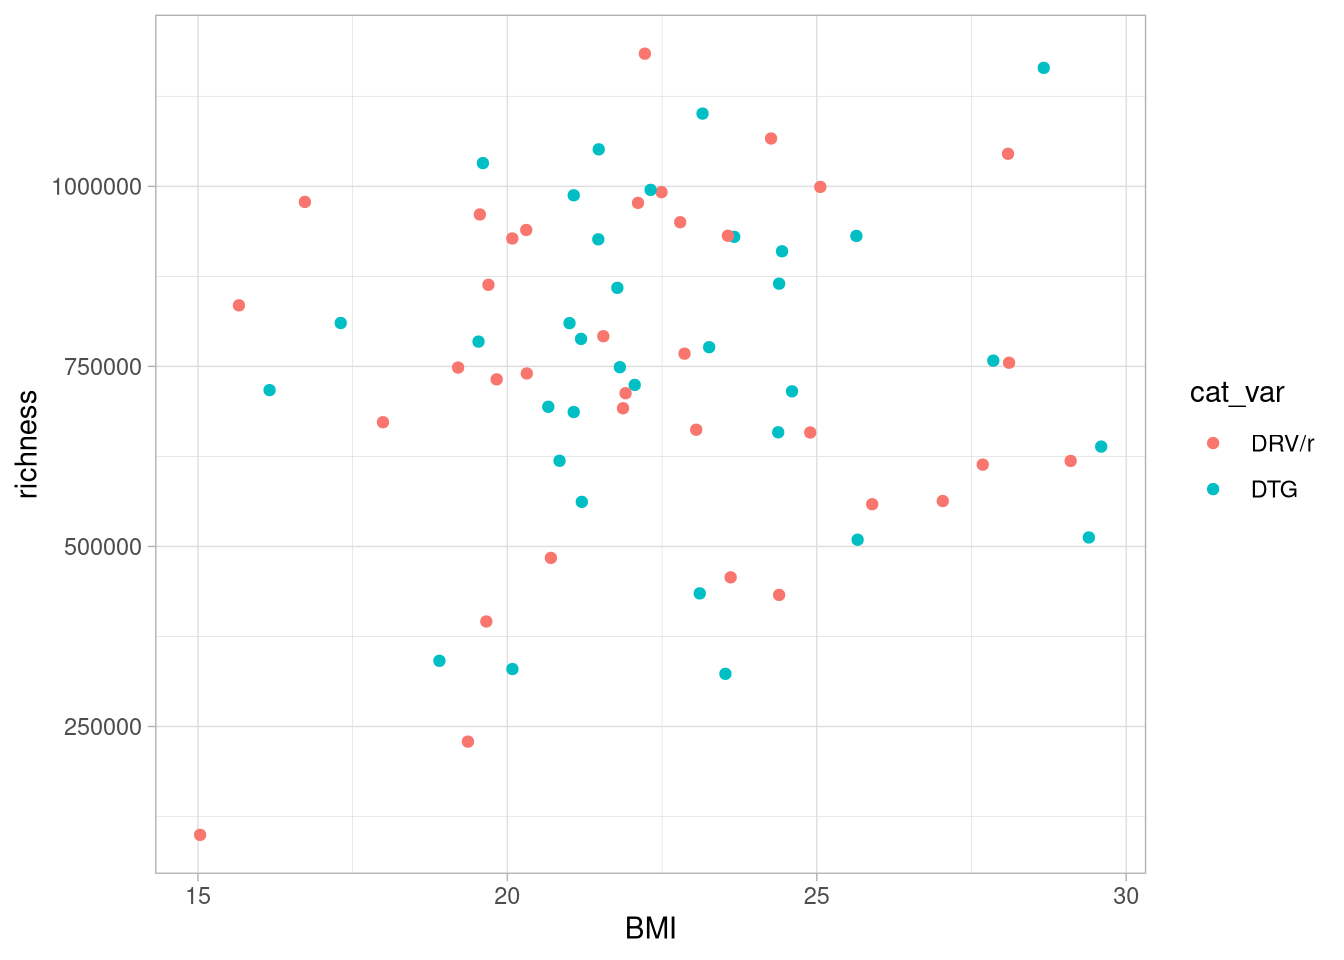
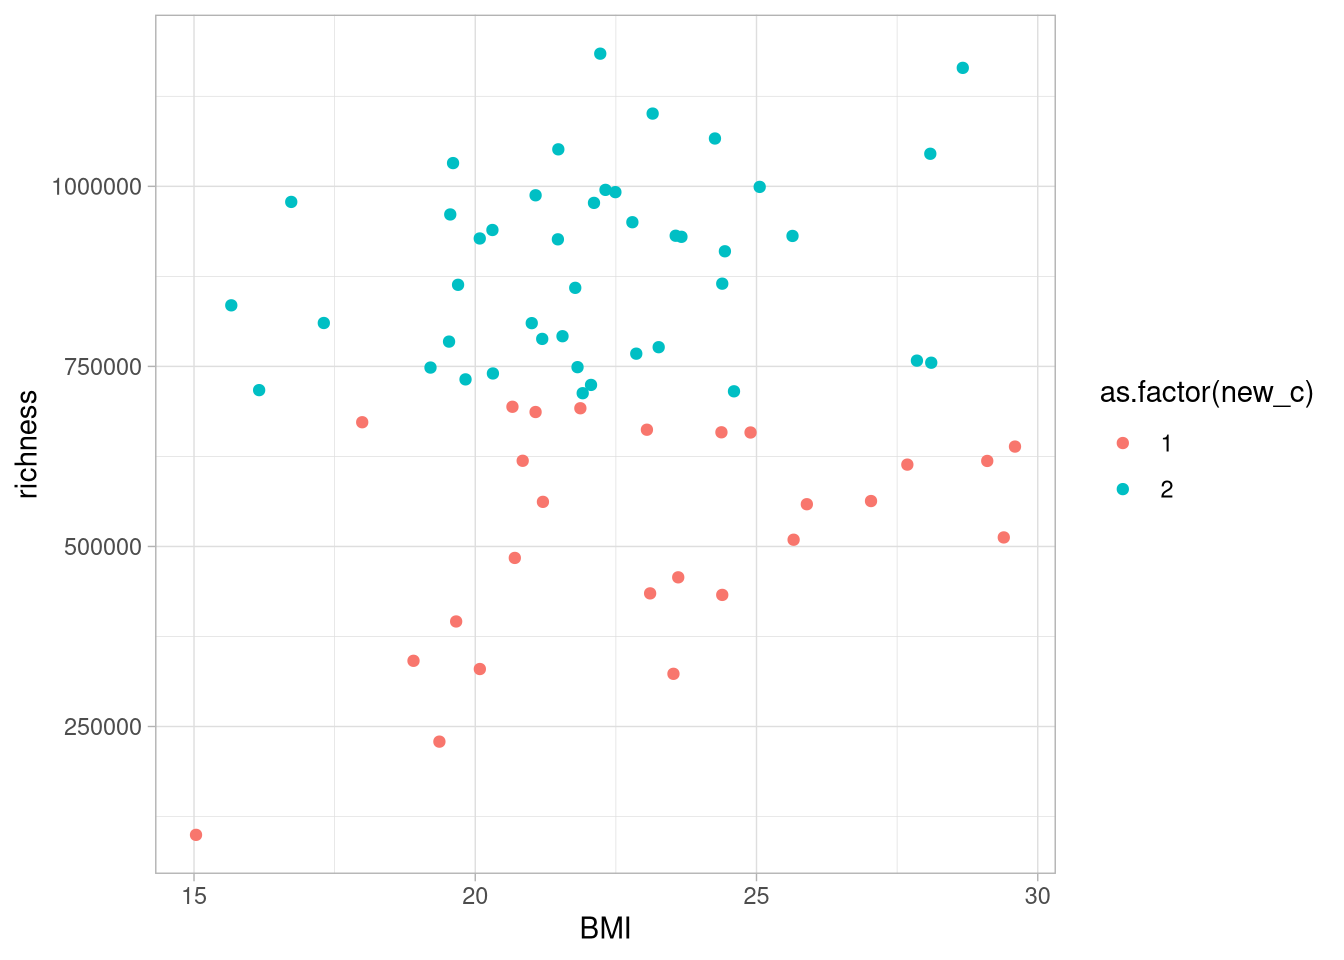
added distribution per group

diff --git a/docs/311_GR_vs_BMI.html b/docs/311_GR_vs_BMI.html
@@ -342,7 +342,7 @@ $(document).ready(function () {
 <div class="tab-content">
 <div id="summary" class="tab-pane fade in active">
 <p>
-<strong>Last updated:</strong> 2023-03-08
+<strong>Last updated:</strong> 2023-03-09
 </p>
 <p>
 <strong>Checks:</strong> <span class="glyphicon glyphicon-ok text-success" aria-hidden="true"></span> 6 <span class="glyphicon glyphicon-exclamation-sign text-danger" aria-hidden="true"></span> 1
@@ -433,16 +433,16 @@ This reproducible <a href="https://rmarkdown.rstudio.com">R Markdown</a> analysi
 <div class="panel panel-default">
 <div class="panel-heading">
 <p class="panel-title">
-<a data-toggle="collapse" data-parent="#workflowr-checks" href="#strongRepositoryversionstrongahrefhttpsgithubcomMicrobialGenomicsadvanz4treead7d8450c85e8ec5ecd71dff2d8584608ea133d3targetblankad7d845a"> <span class="glyphicon glyphicon-ok text-success" aria-hidden="true"></span> <strong>Repository version:</strong> <a href="https://github.com/MicrobialGenomics/advanz4/tree/ad7d8450c85e8ec5ecd71dff2d8584608ea133d3" target="_blank">ad7d845</a> </a>
+<a data-toggle="collapse" data-parent="#workflowr-checks" href="#strongRepositoryversionstrongahrefhttpsgithubcomMicrobialGenomicsadvanz4treeec3949c8abd001aa4c07563476791b0c859c652atargetblankec3949ca"> <span class="glyphicon glyphicon-ok text-success" aria-hidden="true"></span> <strong>Repository version:</strong> <a href="https://github.com/MicrobialGenomics/advanz4/tree/ec3949c8abd001aa4c07563476791b0c859c652a" target="_blank">ec3949c</a> </a>
 </p>
 </div>
[2 lines of base64/hex data omitted]
 <div class="panel-body">
 <p>
 Great! You are using Git for version control. Tracking code development and connecting the code version to the results is critical for reproducibility.
 </p>
 <p>
-The results in this page were generated with repository version <a href="https://github.com/MicrobialGenomics/advanz4/tree/ad7d8450c85e8ec5ecd71dff2d8584608ea133d3" target="_blank">ad7d845</a>. See the <em>Past versions</em> tab to see a history of the changes made to the R Markdown and HTML files.
+The results in this page were generated with repository version <a href="https://github.com/MicrobialGenomics/advanz4/tree/ec3949c8abd001aa4c07563476791b0c859c652a" target="_blank">ec3949c</a>. See the <em>Past versions</em> tab to see a history of the changes made to the R Markdown and HTML files.
 </p>
 <p>
 Note that you need to be careful to ensure that all relevant files for the analysis have been committed to Git prior to generating the results (you can use <code>wflow_publish</code> or <code>wflow_git_commit</code>). workflowr only checks the R Markdown file, but you know if there are other scripts or data files that it depends on. Below is the status of the Git repository when the results were generated:
@@ -460,7 +460,7 @@ Ignored files:
     Ignored:    data/mre.rds
 
 Untracked files:
-    Untracked:  data/signif_paths.rds
+    Untracked:  analysis/figure/
 
 Unstaged changes:
     Modified:   analysis/311_GR_vs_BMI.Rmd
@@ -502,6 +502,40 @@ Message
 </tr>
 </thead>
 <tbody>
+<tr>
+<td>
+Rmd
+</td>
+<td>
+<a href="https://github.com/MicrobialGenomics/advanz4/blob/ec3949c8abd001aa4c07563476791b0c859c652a/analysis/311_GR_vs_BMI.Rmd" target="_blank">ec3949c</a>
+</td>
+<td>
+cblazquez
+</td>
+<td>
+2023-03-08
+</td>
+<td>
+updated BMI_vs_GR
+</td>
+</tr>
+<tr>
+<td>
+html
+</td>
+<td>
+<a href="https://rawcdn.githack.com/MicrobialGenomics/advanz4/ec3949c8abd001aa4c07563476791b0c859c652a/docs/311_GR_vs_BMI.html" target="_blank">ec3949c</a>
+</td>
+<td>
+cblazquez
+</td>
+<td>
+2023-03-08
+</td>
+<td>
+updated BMI_vs_GR
+</td>
+</tr>
 <tr>
 <td>
 Rmd
@@ -555,6 +589,43 @@ igc_df %&gt;%
   theme(axis.title.y = element_blank())</code></pre>
 <pre><code>Warning: Ignoring unknown parameters: bins</code></pre>
 <p><img src="figure/311_GR_vs_BMI.Rmd/basal_dist_df-1.png" width="672" style="display: block; margin: auto;" /></p>
+<p>
+<button type="button" class="btn btn-default btn-xs btn-workflowr btn-workflowr-fig" data-toggle="collapse" data-target="#fig-basal_dist_df-1">
+Past versions of basal_dist_df-1.png
+</button>
+</p>
+<div id="fig-basal_dist_df-1" class="collapse">
+<div class="table-responsive">
+<table class="table table-condensed table-hover">
+<thead>
+<tr>
+<th>
+Version
+</th>
+<th>
+Author
+</th>
+<th>
+Date
+</th>
+</tr>
+</thead>
+<tbody>
+<tr>
+<td>
+<a href="https://github.com/MicrobialGenomics/advanz4/blob/ec3949c8abd001aa4c07563476791b0c859c652a/docs/figure/311_GR_vs_BMI.Rmd/basal_dist_df-1.png" target="_blank">ec3949c</a>
+</td>
+<td>
+cblazquez
+</td>
+<td>
+2023-03-08
+</td>
+</tr>
+</tbody>
+</table>
+</div>
+</div>
 <pre class="r"><code>igc_df %&gt;% 
   dplyr::filter(long_var == 0, !is.na(BMI)) %&gt;% 
   dplyr::mutate(BMI_c = case_when(BMI &gt;= 22 ~ &quot;high&quot;,
@@ -611,19 +682,94 @@ bmi_c %&gt;%
   ggpubr::stat_compare_means(method = &quot;wilcox.test&quot;, hide.ns = F) +
   theme_light()</code></pre>
 <p><img src="figure/311_GR_vs_BMI.Rmd/BL_stratified_analysis-1.png" width="672" style="display: block; margin: auto;" /></p>
+<p>
+<button type="button" class="btn btn-default btn-xs btn-workflowr btn-workflowr-fig" data-toggle="collapse" data-target="#fig-BL_stratified_analysis-1">
+Past versions of BL_stratified_analysis-1.png
+</button>
+</p>
+<div id="fig-BL_stratified_analysis-1" class="collapse">
+<div class="table-responsive">
+<table class="table table-condensed table-hover">
+<thead>
+<tr>
+<th>
+Version
+</th>
+<th>
+Author
+</th>
+<th>
+Date
+</th>
+</tr>
+</thead>
+<tbody>
+<tr>
+<td>
+<a href="https://github.com/MicrobialGenomics/advanz4/blob/ec3949c8abd001aa4c07563476791b0c859c652a/docs/figure/311_GR_vs_BMI.Rmd/BL_stratified_analysis-1.png" target="_blank">ec3949c</a>
+</td>
+<td>
+cblazquez
+</td>
+<td>
+2023-03-08
+</td>
+</tr>
+</tbody>
+</table>
+</div>
+</div>
 <pre class="r"><code>bmi_c %&gt;% 
   # dplyr::select(BMI, richness) %&gt;% 
   dplyr::filter(!is.na(richness)) %&gt;% 
   mutate(new_c = kmeans(.[,c(&quot;BMI&quot;,&quot;richness&quot;)], centers = 2)$cluster) %&gt;% 
-  ggplot(aes( x = BMI, y = richness, color = cat_var)) +
+  ggplot(aes( x = BMI, y = richness, color = as.factor(new_c))) +
   geom_point() +
   theme_light()</code></pre>
-<p><img src="figure/311_GR_vs_BMI.Rmd/BL_stratified_analysis-2.png" width="672" style="display: block; margin: auto;" /> Doesn’t seem to be any noticeable difference between groups or BMI types. No diferences between groups could be found,</p>
+<p><img src="figure/311_GR_vs_BMI.Rmd/BL_stratified_analysis-2.png" width="672" style="display: block; margin: auto;" /></p>
+<p>
+<button type="button" class="btn btn-default btn-xs btn-workflowr btn-workflowr-fig" data-toggle="collapse" data-target="#fig-BL_stratified_analysis-2">
+Past versions of BL_stratified_analysis-2.png
+</button>
+</p>
+<div id="fig-BL_stratified_analysis-2" class="collapse">
+<div class="table-responsive">
+<table class="table table-condensed table-hover">
+<thead>
+<tr>
+<th>
+Version
+</th>
+<th>
+Author
+</th>
+<th>
+Date
+</th>
+</tr>
+</thead>
+<tbody>
+<tr>
+<td>
+<a href="https://github.com/MicrobialGenomics/advanz4/blob/ec3949c8abd001aa4c07563476791b0c859c652a/docs/figure/311_GR_vs_BMI.Rmd/BL_stratified_analysis-2.png" target="_blank">ec3949c</a>
+</td>
+<td>
+cblazquez
+</td>
+<td>
+2023-03-08
+</td>
+</tr>
+</tbody>
+</table>
+</div>
+</div>
+<p>Doesn’t seem to be any noticeable difference between groups or BMI types. No diferences richness between HBMI and LBMI could be found.</p>
 </div>
 <div id="stratification-by-bmi-changes" class="section level1">
 <h1>Stratification by BMI changes</h1>
 <p>Maybe the increase in gene richness may be associated with higher increase in BMI</p>
-<pre class="r"><code>delta_bmi_df
+<pre class="r"><code>delta_bmi_df &lt;- 
 igc_df %&gt;% 
   # dplyr::filter(long_var == 0) %&gt;% 
   dplyr::select(link_var, long_var, cat_var, richness, BMI) %&gt;% 
@@ -631,20 +777,73 @@ igc_df %&gt;%
   dplyr::filter(long_var %in% c(0,96), 
                 !is.na(BMI)) %&gt;% 
   filter(n() ==2) %&gt;% 
-  mutate(delta_BMI_abs = BMI - BMI[long_var == 0],
+  mutate(bmi0 = BMI[long_var == 0],
+    delta_BMI_abs = BMI - BMI[long_var == 0],
          delta_BMI_rel = (BMI - BMI[long_var == 0])*100 / BMI[long_var == 0],
          delta_gr_abs = richness - richness[long_var == 0],
          delta_gr_rel = (richness - richness[long_var == 0]) / (richness + richness[long_var == 0])) %&gt;%
-  dplyr::filter(long_var == 96) 
+  dplyr::filter(long_var == 96) %&gt;% 
+  dplyr::select(record_id = link_var, contains(&quot;delta&quot;), bmi0, cat_var) 
 
 
+peaks_abs &lt;-
+  unique(metadata$group) %&gt;%
+  purrr::set_names() %&gt;%
+  purrr::map_dfr(function(treat) {
+    
+    delta_bmi_df %&gt;%
+      dplyr::filter(cat_var == treat) %&gt;% 
+      dplyr::pull(delta_BMI_abs) %&gt;%
+      density() %&gt;%
+      peak_finder(goal = &quot;min&quot;) %&gt;%
+      round(., 3) %&gt;% 
+      mutate(cat_var = treat)
+  })
 
-%&gt;%
+
+plot_delta_abs &lt;- 
+delta_bmi_df %&gt;% 
   ggplot(aes(x = delta_BMI_abs)) +
-  geom_density()
-  
-  
-  create_LMM(.,link_var = &quot;link_var&quot;, cat_var = &quot;cat_var&quot;,long_var = &quot;delta_gr_rel&quot;,num_var = &quot;delta_BMI_rel&quot;,breakpoints = NULL)</code></pre>
+  geom_density(aes(color = cat_var)) +
+  geom_vline(xintercept = peaks_abs$x, aes(color = cat_var)) +
+  geom_text(data = peaks_abs, aes(x = peaks_abs$x, y = peaks_abs$y*.9,label = peaks_abs$x, color = cat_var)) +
+  theme_light() +
+  labs(title = &quot;Absolute&quot;, x = &quot;BMI increase&quot;) +
+  theme(axis.title.y = element_blank())
+
+
+
+
+peaks_rel &lt;- 
+  unique(metadata$group) %&gt;%
+  purrr::set_names() %&gt;%
+  purrr::map_dfr(function(treat) {
+    
+    delta_bmi_df %&gt;%
+      dplyr::filter(cat_var == treat) %&gt;% 
+      dplyr::pull(delta_BMI_rel) %&gt;%
+      density() %&gt;%
+      peak_finder(goal = &quot;min&quot;) %&gt;%
+      round(., 3) %&gt;% 
+      mutate(cat_var = treat)
+  })
+
+plot_delta_rel &lt;- 
+delta_bmi_df %&gt;% 
+  ggplot(aes(x = delta_BMI_rel,color = cat_var)) +
+  geom_density(aes(color = cat_var)) +
+  geom_vline(xintercept = peaks_rel$x) +
+  geom_text(data = peaks_rel, aes(x = peaks_rel$x, y = peaks_rel$y*.9,label = peaks_rel$x, color = cat_var)) +
+  labs(title = &quot;Relative (%)&quot;, x = &quot;BMI increase&quot;) +
+  theme_light()
+
+
+# delta_bmi_df %&gt;% 
+
+
+
+ggpubr::ggarrange(plot_delta_abs, plot_delta_rel)  </code></pre>
+<p><img src="figure/311_GR_vs_BMI.Rmd/unnamed-chunk-1-1.png" width="672" style="display: block; margin: auto;" /> Both absolute and relative increases seem fairly unimodal with a slight skew to the left. There seems to be a local minima in the relative deltas, but not enough to justfy a split.</p>
 <br>
 <p>
 <button type="button" class="btn btn-default btn-workflowr btn-workflowr-sessioninfo" data-toggle="collapse" data-target="#workflowr-sessioninfo" style="display: block;">
@@ -712,16 +911,17 @@ loaded via a namespace (and not attached):
  [97] vegan_2.6-2         permute_0.9-7       multtest_2.46.0    
 [100] vctrs_0.4.1         pillar_1.7.0        lifecycle_1.0.1    
 [103] networkD3_0.4       rhdf5filters_1.2.1  furrr_0.3.0        
-[106] jquerylib_0.1.4     data.table_1.14.2   httpuv_1.6.5       
-[109] R6_2.5.1            promises_1.2.0.1    gridExtra_2.3      
-[112] IRanges_2.24.1      parallelly_1.32.0   codetools_0.2-18   
-[115] boot_1.3-28         MASS_7.3-57         assertthat_0.2.1   
-[118] rhdf5_2.34.0        rprojroot_2.0.3     withr_2.5.0        
-[121] S4Vectors_0.28.1    broom.mixed_0.2.9.4 mgcv_1.8-40        
-[124] parallel_4.0.5      hms_1.1.1           grid_4.0.5         
-[127] coda_0.19-4         minqa_1.2.4         rmarkdown_2.14     
-[130] carData_3.0-5       ggpubr_0.4.0        git2r_0.30.1       
-[133] Biobase_2.50.0      shiny_1.7.1         lubridate_1.8.0    </code></pre>
+[106] jquerylib_0.1.4     cowplot_1.1.1       data.table_1.14.2  
+[109] httpuv_1.6.5        R6_2.5.1            promises_1.2.0.1   
+[112] gridExtra_2.3       IRanges_2.24.1      parallelly_1.32.0  
+[115] codetools_0.2-18    boot_1.3-28         MASS_7.3-57        
+[118] assertthat_0.2.1    rhdf5_2.34.0        rprojroot_2.0.3    
+[121] withr_2.5.0         S4Vectors_0.28.1    broom.mixed_0.2.9.4
+[124] mgcv_1.8-40         parallel_4.0.5      hms_1.1.1          
+[127] grid_4.0.5          coda_0.19-4         minqa_1.2.4        
+[130] rmarkdown_2.14      carData_3.0-5       ggpubr_0.4.0       
+[133] git2r_0.30.1        Biobase_2.50.0      shiny_1.7.1        
+[136] lubridate_1.8.0    </code></pre>
 </div>
 </div>
 
